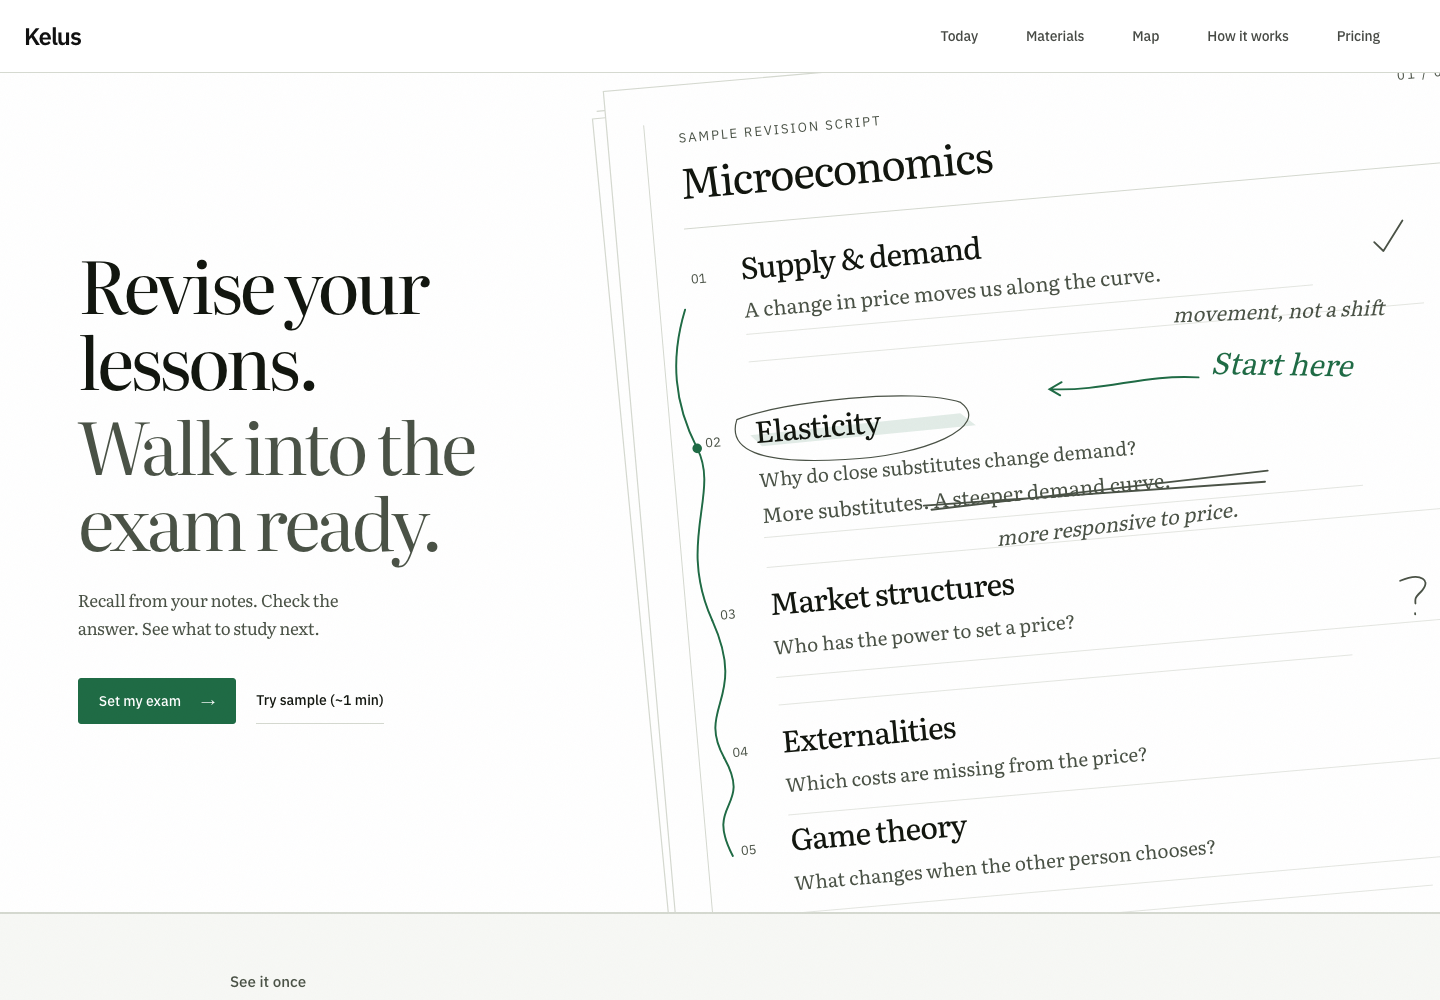
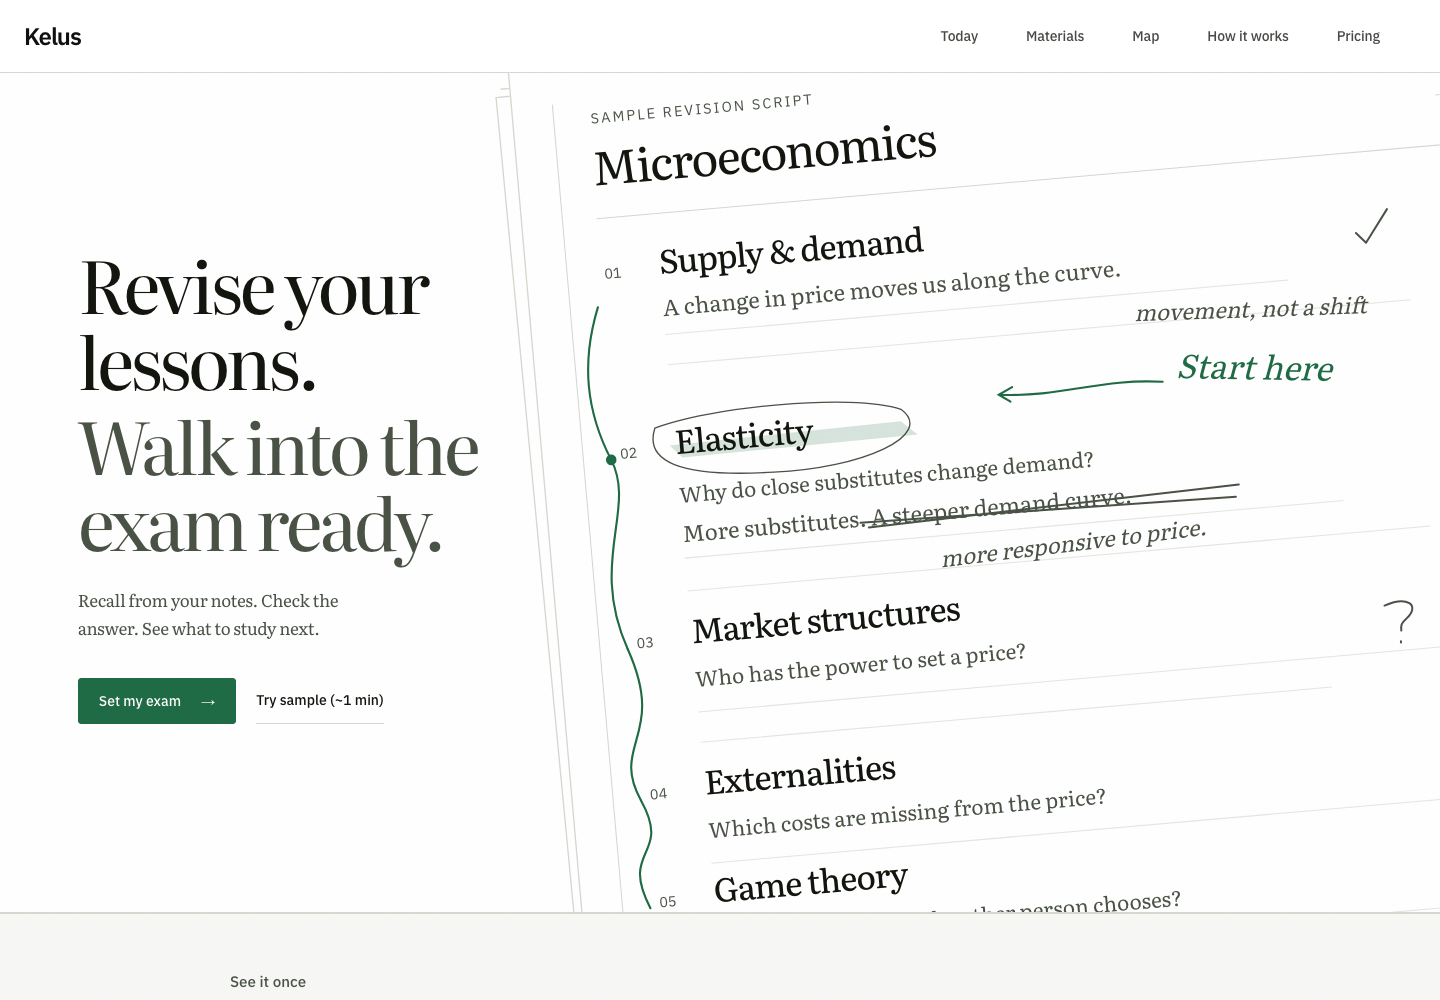
Finish marked-script field overlap and resting hierarchy

diff --git a/components/hero/MarkedScriptHero.module.css b/components/hero/MarkedScriptHero.module.css
@@ -31,7 +31,7 @@
   overflow-wrap: anywhere;
   min-width: 0;
 }
-.secondLine { display: block; margin-top: .12em; color: var(--mute); font-weight: 400; }
+.secondLine { display: block; margin-top: .12em; color: var(--mute); font-weight: 430; }
 .hero .lede { max-width: 30ch; margin: 28px 0 0; font-family: var(--font-source-serif), Georgia, serif; font-size: 17px; line-height: 1.65; letter-spacing: -.02em; color: var(--mute); }
 .actions { display: flex; align-items: center; flex-wrap: wrap; gap: 8px 20px; margin-top: 36px; }
 .primary, .secondary { display: inline-flex; align-items: center; justify-content: center; min-height: 46px; font-family: var(--font-inter), sans-serif; font-size: 14px; font-weight: 500; white-space: nowrap; text-decoration: none; border-radius: 3px; box-shadow: none; }
@@ -40,8 +40,8 @@
 .primary:hover { background: var(--ink); border-color: var(--ink); }
 .secondary:hover { color: var(--ink); border-color: var(--ink); }
 .primary:focus-visible, .secondary:focus-visible, .motionControl:focus-visible { outline: 2px solid var(--green); outline-offset: 5px; }
-.visual { position: absolute; inset: 0 -8% 0 38%; min-width: 0; }
-.script { position: absolute; inset: -80px 0 0; margin: 0; }
+.visual { position: absolute; inset: 0 -8% 0 31%; min-width: 0; }
+.script { position: absolute; inset: -114px 0 0; margin: 0; }
 .art { display: block; width: 100%; height: auto; overflow: visible; }
 .paperEdge { fill: none; stroke: var(--rule); stroke-width: 1; }
 .paper { fill: #fff; stroke: var(--rule); stroke-width: 1; }
@@ -57,7 +57,7 @@
 .pen, .startPen { fill: none; stroke: var(--mute); stroke-width: 1.5; stroke-linecap: round; stroke-linejoin: round; }
 .startPen { stroke: var(--mute); stroke-width: 1; }
 .startTopic { fill: var(--ink); }
-.startWash { fill: var(--green); opacity: .13; transform-origin: 177px 354px; }
+.startWash { fill: var(--green); opacity: .18; transform-origin: 177px 354px; }
 .startAnnotation { fill: var(--green); font: italic 25px var(--font-source-serif), Georgia, serif; }
 .startAnnotation path { fill: none; stroke: var(--green); stroke-width: 1.6; stroke-linecap: round; }
 .guide { fill: none; stroke: var(--rule); stroke-width: 1; }
@@ -75,8 +75,8 @@
 }
 @media (min-width: 48rem) and (max-width: 63.99rem) {
   .copy { width: 48%; padding-left: 32px; }
-  .visual { left: 43%; right: -24%; }
-  .script { top: -16px; }
+  .visual { left: 39%; right: -24%; }
+  .script { top: -32px; }
   .startAnnotation { translate: -120px -8px; }
 }
 @media (max-width: 47.99rem) {
@@ -86,7 +86,7 @@
   .hero .lede { max-width: 32ch; margin-top: 20px; font-size: 17px; }
   .actions { margin-top: 24px; gap: 8px 18px; }
   .visual { position: relative; inset: auto; height: 420px; min-height: 0; margin-top: 8px; }
-  .script { inset: -60px -24% 0 -12%; }
+  .script { inset: -80px -24% 0 -12%; }
   .art { min-width: 520px; height: auto; }
   .motionControl { right: calc(24vw + 16px); bottom: 8px; }
   .startAnnotation { translate: -24px 0; }
@@ -96,7 +96,7 @@
 }
 @media (prefers-reduced-motion: reduce) {
   .routeInk { stroke-dashoffset: 0 !important; }
-  .startWash { opacity: .13 !important; transform: none !important; }
+  .startWash { opacity: .18 !important; transform: none !important; }
   .startAnnotation { opacity: 1 !important; transform: none !important; }
   .motionControl { display: none; }
 }

diff --git a/components/hero/ExamRoutePoster.tsx b/components/hero/ExamRoutePoster.tsx
@@ -41,11 +41,11 @@ export function ExamRoutePoster() {
     });
     const arrival = .6 + 7.4 * lengths[0] / total;
     sequence.push(
-      ["[data-start-wash]", { opacity: [.04, .13], scaleX: [.94, 1] },
+      ["[data-start-wash]", { opacity: [.16, .18], scaleX: [.94, 1] },
         { at: arrival, type: "spring", bounce: 0, duration: 1 }],
-      ["[data-start-note]", { opacity: [.55, 1], y: [2, 0] },
+      ["[data-start-note]", { opacity: [.85, 1], y: [2, 0] },
         { at: arrival, type: "spring", bounce: 0, duration: 1 }],
-      ["[data-start-wash]", { opacity: .13 }, { at: 8, duration: 2 }],
+      ["[data-start-wash]", { opacity: .18 }, { at: 8, duration: 2 }],
     );
     const controls = animate(sequence);
     playback.current = controls;

diff --git a/docs/previews/marked-script-hero/README.md b/docs/previews/marked-script-hero/README.md
@@ -1,8 +1,6 @@
-Bleed — enlarged the existing script into an edge-cropped plane; compacted later topics to keep the route legible.
-Type — Literata now reaches 72px at 1.06 leading, with a stronger 440/400 weight pairing.
-Green — removed green from the printed topic and oval; retained route ink, Start here, its wash, the primary CTA, and focus rings.
-Motion — corrected the CSS override that prevented drawing; distance-weighted segments hand off velocity, and Start here settles at Elasticity.
-CTA grammar — unchanged exact labels and destinations; one solid green primary, one quiet text/hairline secondary.
+- Field bleed — moved the paper left under the copy field and further above the top edge; tightened the mobile crop without changing the stacked layout.
+- Start-here rest signal — increased the finished wash to 18%, with 16% wash and 85% annotation opacity during the initial drawing; Elasticity and its oval remain ink.
+- Second-line authority — raised the second line to Literata 430 beside the first line’s 440, preserving mute color, optical sizing, tight leading, and exact copy.
 
 ## Preview provenance
 
